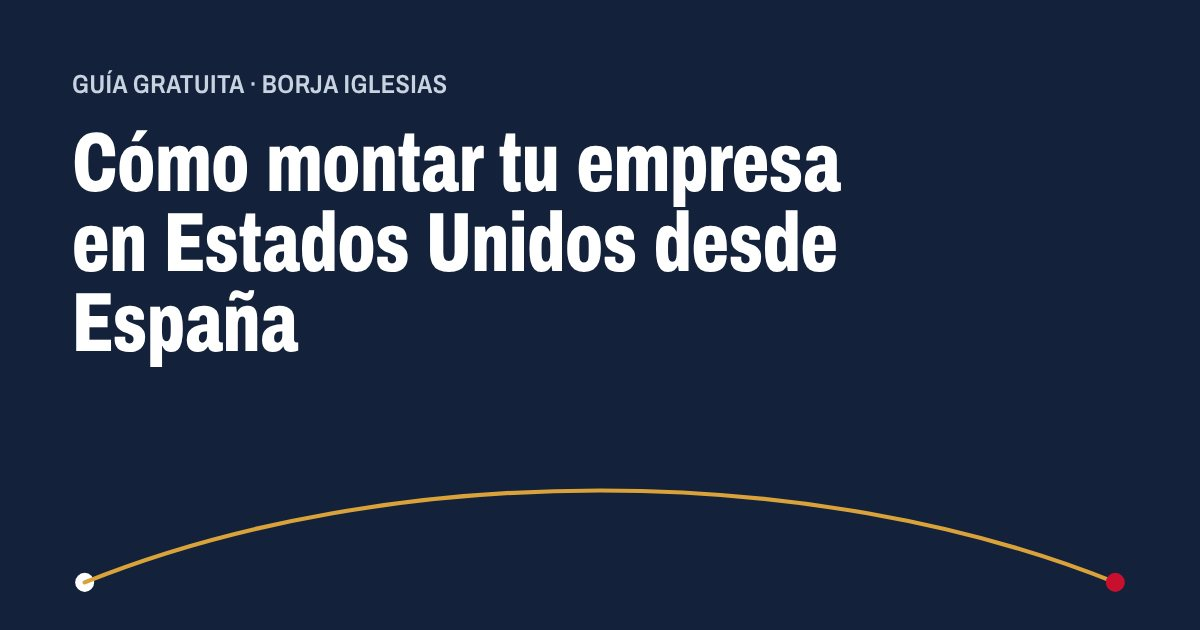
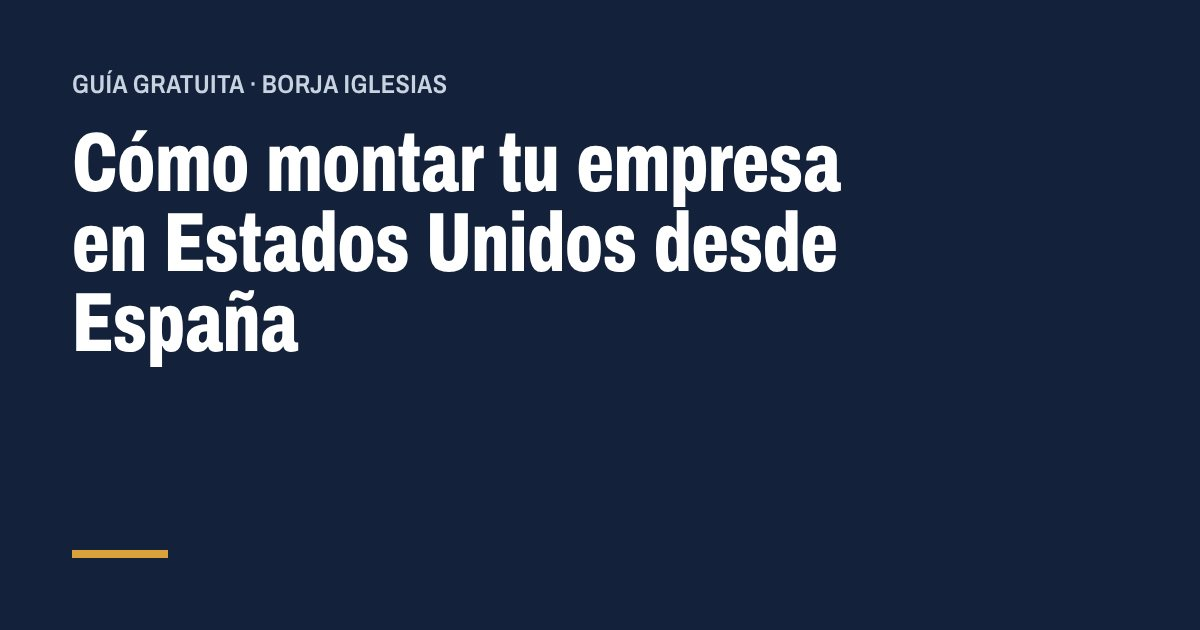
Guías como bloque protagonista en la portada; fuera la ruta España-Miami
Claude-Session: https://claude.ai/code/session_01PPCueHdcv7w5xyuaez4QiR

diff --git a/styles.css b/styles.css
@@ -49,17 +49,6 @@ a:hover{color:var(--red)}
 @media (min-width:821px){
   .hero{grid-template-columns:minmax(0,1fr) 400px;gap:56px;align-items:end;padding-top:56px}
   .portrait{aspect-ratio:4/5;object-position:center}
-  .hero .route{grid-column:1/-1}
-}
-.route{margin:8px 0 0;color:var(--ink-2)}
-.route svg{width:100%;height:auto}
-.route .places{display:flex;justify-content:space-between;font-variation-settings:"wdth" 80;font-weight:600;font-size:14px;margin-top:6px}
-.route .places span:last-child{text-align:right}
-@media (prefers-reduced-motion:no-preference){
-  .route path.arc{stroke-dasharray:1400;stroke-dashoffset:1400;animation:draw 2.2s .3s ease-out forwards}
-  .route .plane{opacity:0;animation:show .4s 2.4s forwards}
-  @keyframes draw{to{stroke-dashoffset:0}}
-  @keyframes show{to{opacity:1}}
 }
 
 /* secciones */
@@ -75,16 +64,27 @@ h3{font-weight:700;font-size:20px;line-height:1.25;margin:0 0 6px}
 .facts b{font-variation-settings:"wdth" 70;font-size:30px;line-height:1;font-weight:800}
 .facts span{color:var(--ink-2);font-size:15.5px}
 
-/* lista de guías */
-.guides{list-style:none;padding:0;margin:26px 0 0;border-top:1.5px solid var(--ink)}
-.guides li a{display:grid;grid-template-columns:1fr auto;gap:20px;align-items:center;padding:22px 0;
-  border-bottom:1px solid var(--line);text-decoration:none}
+/* guías: bloque protagonista */
+.guides-sec{background:var(--ink);color:#fff;padding:64px 0 72px}
+.guides-sec h2{color:#fff;font-size:clamp(44px,8vw,84px);font-variation-settings:"wdth" 68;line-height:.95;margin:0 0 16px}
+.guides-sec .kicker{color:var(--gold)}
+.guides-sec .intro{color:#c8d2e1;max-width:52ch;margin:0;font-size:17.5px}
+.guides{list-style:none;padding:0;margin:36px 0 0;display:grid;gap:20px}
+.guides li a{display:grid;grid-template-columns:1fr;background:#fff;color:var(--ink);border-radius:20px;text-decoration:none;
+  padding:26px 22px 28px}
+.g-num{font-weight:800;font-variation-settings:"wdth" 62;font-size:72px;line-height:.8;color:var(--ink);opacity:.14;margin-bottom:6px}
+.g-meta{display:block;font-weight:700;font-size:14px;letter-spacing:.04em;text-transform:uppercase;color:var(--red);margin-bottom:10px}
+.guides h3{font-weight:800;font-variation-settings:"wdth" 72;font-size:clamp(30px,4.4vw,46px);line-height:1;margin:0 0 14px;max-width:18ch}
+.guides p{margin:0 0 16px;color:var(--ink-2);font-size:17px;max-width:48ch}
+.g-topics{list-style:none;padding:0;margin:0 0 24px;display:flex;flex-wrap:wrap;gap:8px}
+.g-topics li{font-size:14px;font-weight:600;padding:5px 12px;border:1px solid var(--line);border-radius:999px;color:var(--ink-2)}
 .guides li a:hover h3{color:var(--red)}
-.guides p{margin:0;color:var(--ink-2);font-size:15.5px;max-width:60ch}
-.guides .go{font-weight:700;font-size:16px;white-space:nowrap;color:var(--red)}
-.intro{max-width:60ch;margin:0}
-.guides .soon h3{color:var(--ink-2)}
-.guides li a:hover .go{text-decoration:underline}
+.guides li a:hover .btn{background:#a50d26}
+.guides li a:focus-visible{outline:3px solid var(--gold);outline-offset:4px}
+@media (min-width:821px){
+  .guides li a{grid-template-columns:180px 1fr;gap:24px;padding:44px 48px 46px 40px;align-items:start}
+  .g-num{font-size:150px}
+}
 
 /* sesión */
 .session{background:var(--ink);color:#fff;border-radius:22px;padding:40px clamp(22px,5vw,56px);margin:0 auto}

diff --git a/index.html b/index.html
@@ -43,26 +43,24 @@
       </div>
     </div>
     <img class="portrait" src="/img/borja-640.jpg" srcset="/img/borja-640.jpg 640w, /img/borja-1000.jpg 1000w" sizes="(max-width: 820px) 100vw, 420px" width="640" height="800" alt="Borja Iglesias en la calle, con un café y el móvil">
-    <figure class="route" aria-hidden="true">
-      <svg viewBox="0 0 1000 120" fill="none">
-        <circle cx="12" cy="96" r="7" fill="#13213a"/>
-        <path class="arc" d="M12 96 C 300 -20, 700 -20, 988 96" stroke="#d9a23a" stroke-width="2.5" stroke-linecap="round" stroke-dasharray="1400"/>
-        <circle cx="988" cy="96" r="7" fill="#c8102e"/>
-        <g class="plane" transform="translate(500 12)"><path d="M-12 0h24M0 -6l10 6-10 6" stroke="#13213a" stroke-width="2.2" stroke-linecap="round" stroke-linejoin="round"/></g>
-      </svg>
-      <figcaption class="places"><span>España</span><span>Miami</span></figcaption>
-    </figure>
   </div>
 
-  <section id="guias" class="mist">
+  <section id="guias" class="guides-sec">
     <div class="wrap">
-      <h2>Mis guías gratuitas</h2>
-      <p class="small intro">Cada guía acompaña a uno de mis vídeos de Instagram. La lees en el móvil en cinco minutos.</p>
+      <p class="kicker">Gratis · sin registro</p>
+      <h2>Mis guías</h2>
+      <p class="intro">Cada guía acompaña a uno de mis vídeos de Instagram. Pasos, costes reales y los errores que yo cometí. La lees en el móvil en cinco minutos.</p>
       <ul class="guides">
         <li><a href="/guia-estados-llc">
-          <div><h3>Cómo montar tu empresa en Estados Unidos desde España</h3>
-          <p>Qué estado elegir, cuánto cuesta de verdad, el EIN, la cuenta bancaria y qué obligaciones tienes cada año.</p></div>
-          <span class="go">Leer <span aria-hidden="true">→</span></span></a></li>
+          <span class="g-num" aria-hidden="true">01</span>
+          <div class="g-body">
+            <span class="g-meta">6 min de lectura · Revisada en octubre de 2026</span>
+            <h3>Cómo montar tu empresa en Estados Unidos desde España</h3>
+            <p>Qué estado elegir, cuánto cuesta de verdad y qué obligaciones tienes cada año.</p>
+            <ul class="g-topics"><li>Estado</li><li>LLC</li><li>EIN</li><li>Banco</li><li>Impuestos</li></ul>
+            <span class="btn">Leer la guía <span aria-hidden="true">→</span></span>
+          </div>
+        </a></li>
       </ul>
     </div>
   </section>
